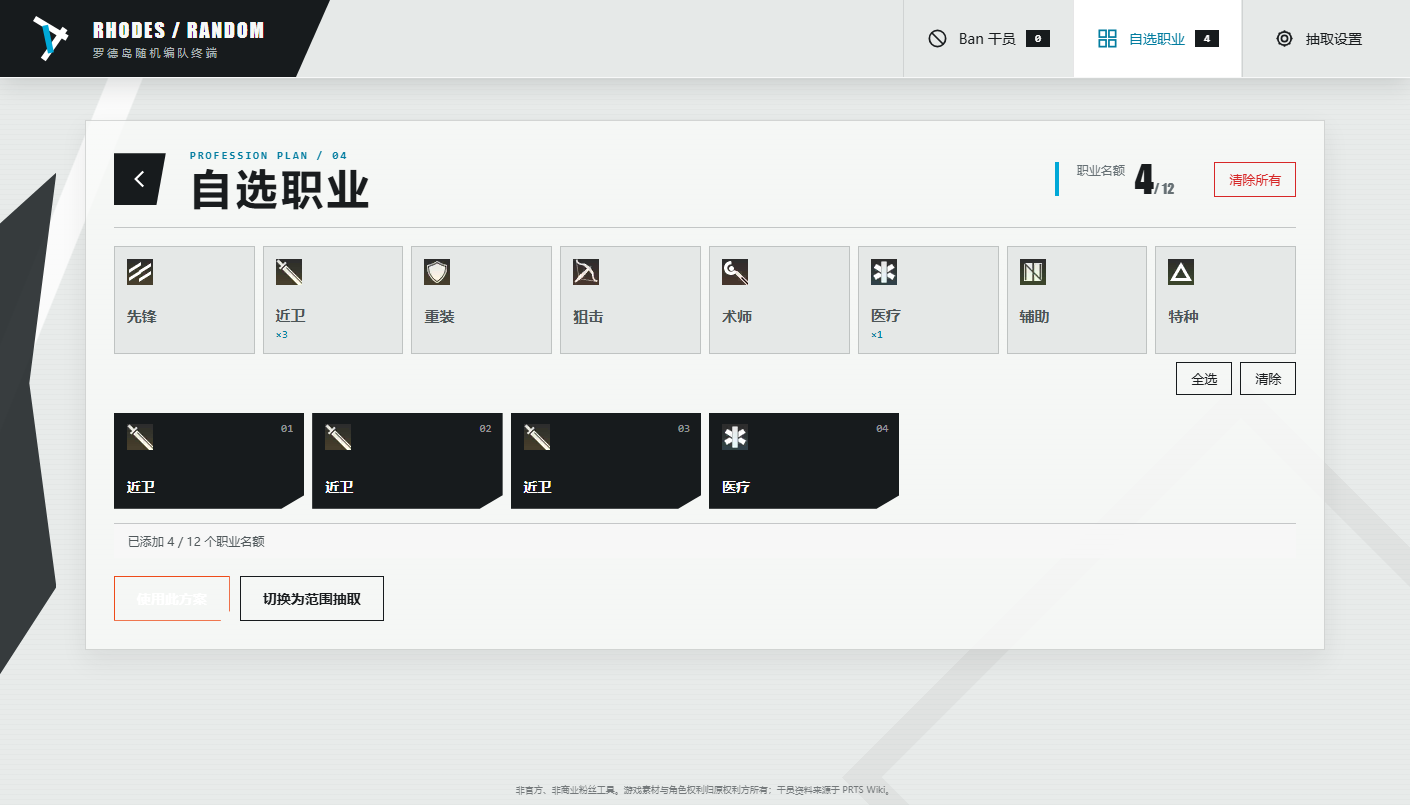
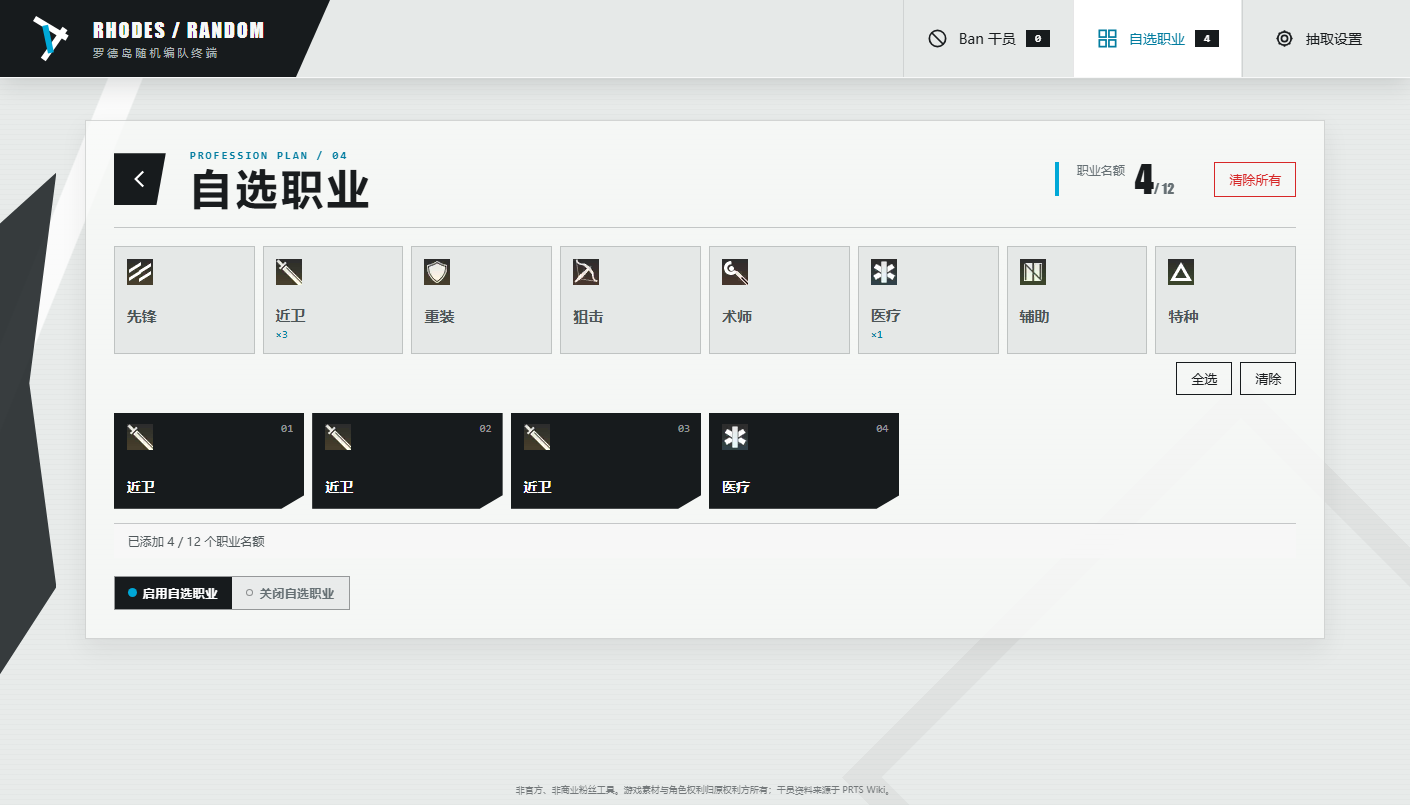
自选职业页底部操作改为启用/关闭自选职业开关

Changed region(s): [[0.0624, 0.7143, 0.9362, 0.8075]]

diff --git a/src/styles.css b/src/styles.css
@@ -1717,30 +1717,16 @@ select:focus-visible {
   margin-top: 18px;
 }
 
-.plan-actions button {
+/* 自选职业页底部的模式开关（与设置页同款，尺寸放大） */
+.plan-mode-switch--large button {
   padding: 12px 22px;
-  border: 1px solid var(--ink);
-  background: transparent;
   font-size: 14px;
   font-weight: 700;
 }
 
-.plan-actions button:hover:not(:disabled) {
-  background: var(--ink);
-  color: #fff;
-}
-
-.plan-actions__use {
-  background: var(--orange);
-  border-color: var(--orange) !important;
-  color: #fff;
-  clip-path: polygon(0 0, 100% 0, 100% 78%, 92% 100%, 0 100%);
-}
-
-.plan-actions__use:hover:not(:disabled) {
-  background: var(--orange) !important;
-  filter: brightness(1.08);
-  color: #fff !important;
+.plan-mode-switch--large button::before {
+  width: 8px;
+  height: 8px;
 }
 
 /* ===== 设置页自选职业模式联动 ===== */
@@ -2087,7 +2073,11 @@ select:focus-visible {
     flex: 1;
   }
 
-  .plan-actions button {
+  .plan-actions .plan-mode-switch {
+    width: 100%;
+  }
+
+  .plan-actions .plan-mode-switch button {
     flex: 1;
   }
 

diff --git a/src/pages/ProfessionPlanPage.tsx b/src/pages/ProfessionPlanPage.tsx
@@ -147,12 +147,22 @@ export function ProfessionPlanPage({ settings, onChange, onBack, onUsePlan }: Pr
         </div>
 
         <div className="plan-actions">
-          <button type="button" className="plan-actions__use" onClick={usePlan}>
-            使用此方案
-          </button>
-          <button type="button" className="plan-actions__range" onClick={switchToRange}>
-            切换为范围抽取
-          </button>
+          <div className="plan-mode-switch plan-mode-switch--large" role="group" aria-label="自选职业开关">
+            <button
+              type="button"
+              aria-pressed={settings.drawMode === 'profession-plan'}
+              onClick={usePlan}
+            >
+              启用自选职业
+            </button>
+            <button
+              type="button"
+              aria-pressed={settings.drawMode !== 'profession-plan'}
+              onClick={switchToRange}
+            >
+              关闭自选职业
+            </button>
+          </div>
         </div>
       </section>
     </main>

diff --git a/README.md b/README.md
@@ -18,7 +18,7 @@
 
 ![自选职业页](screenshots/profession-plan-page.png)
 
-自选职业页支持重复添加同一职业、全选、逐槽删除，最多 12 个名额；顶部导航徽标与页面计数实时一致。
+自选职业页支持重复添加同一职业、全选、逐槽删除，最多 12 个名额；底部提供与设置页一致的“启用自选职业 / 关闭自选职业”开关，启用后应用方案并返回抽取界面。
 
 ![设置页普通范围模式](screenshots/settings-range.png)
 
